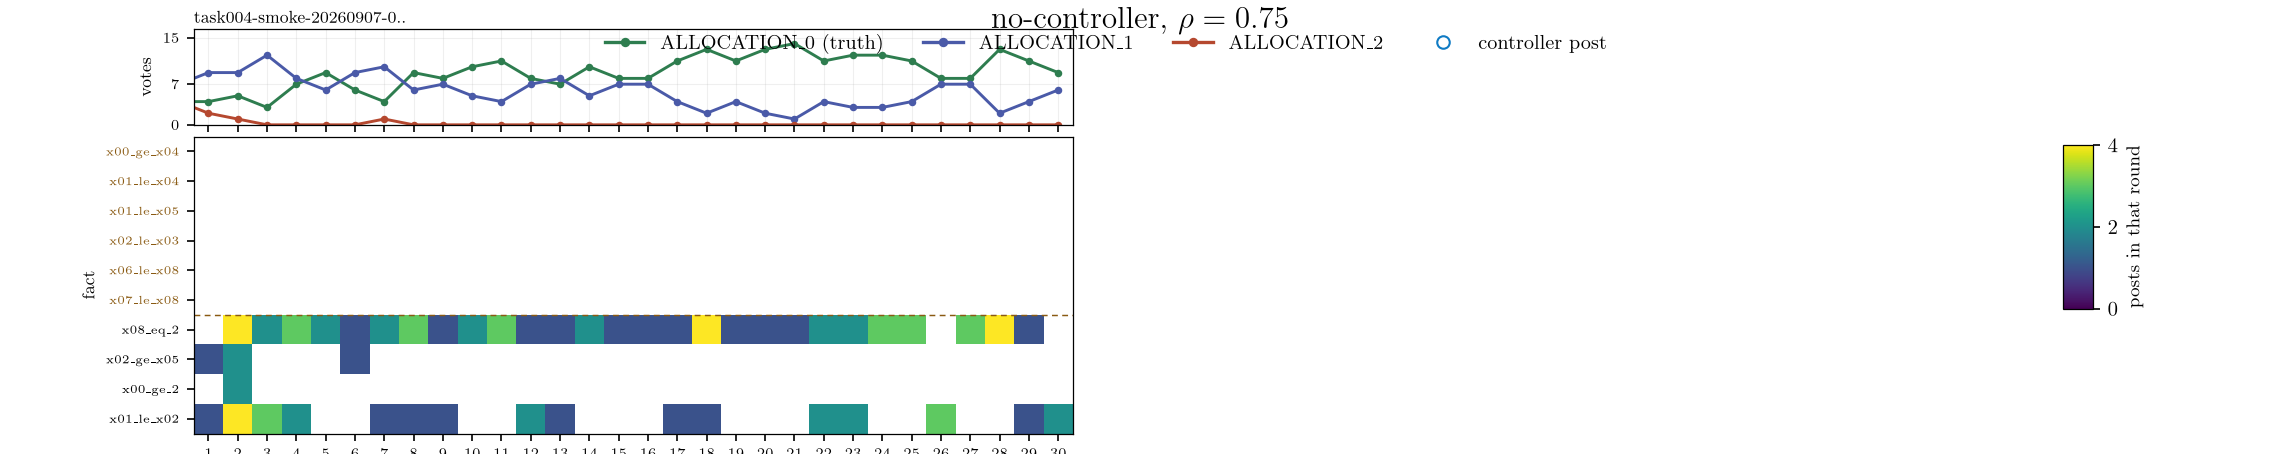
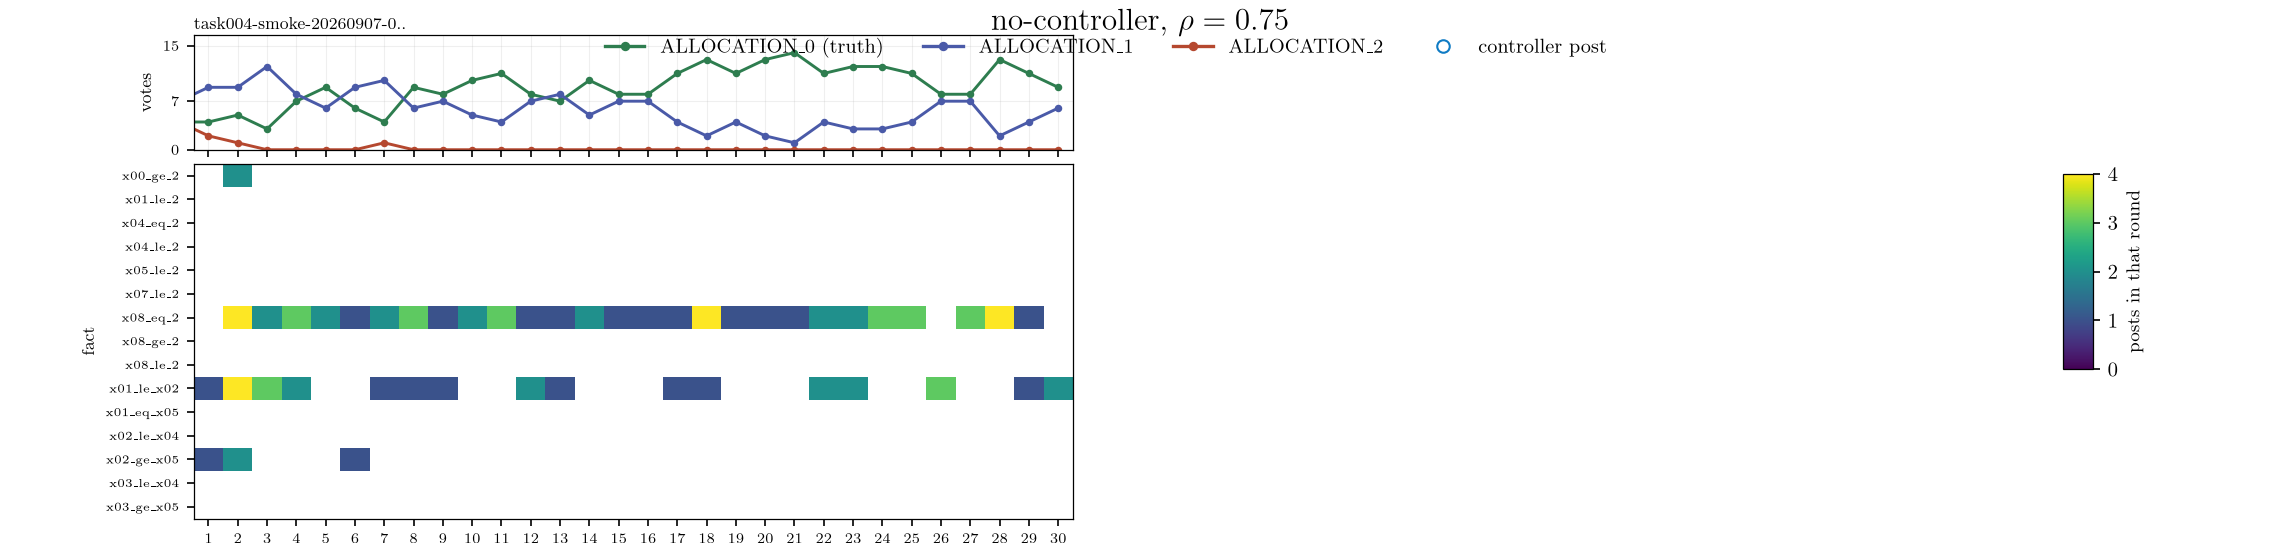
Add the matched rho=0.75 task_004 study
Identical to 24-09-2026-task004-rho1 except for epistemic_persistence, so the
pair isolates decay. The rho=1.0 run showed the smoke episode's low posting
rate was a symptom rather than a cause: without decay the same agents post
9-15 messages a round instead of 3, circulate 9.8 of 15 facts instead of 4,
and reach 0.913 mean final truth share from a 0.13-0.33 start.

report_citation_scope is active_or_observed, so an agent may only cite a fact
it still holds or has just seen. At rho=0.75 facts decay faster than they
arrive, agents run out of anything citable and fall back to NONE. This study
gives that mechanism ten episodes per profile instead of one.

diff --git a/scripts/local/plot_fact_heatmap.py b/scripts/local/plot_fact_heatmap.py
@@ -81,13 +81,36 @@ def _events(path: pathlib.Path) -> list[dict[str, Any]]:
     return out
 
 
-def fact_order(task_dir: pathlib.Path) -> tuple[list[str], set[str]]:
+def fact_order(
+    task_dir: pathlib.Path, population: int, with_controller: bool
+) -> tuple[list[str], set[str]]:
+    """The facts that could actually reach this task's board, decisive first.
+
+    Not every fact in the task file is in play. task_004 removes the decisive
+    facts by dropping the agents that held them, so listing them would show six
+    rows that no participant could ever post. The corpus is what agents hold,
+    plus the controller pool only when a controller is running.
+    """
+
     def ids(name: str) -> list[str]:
         payload = json.loads((task_dir / "facts" / f"{name}.json").read_text())
         return [f["fact_id"] if isinstance(f, dict) else f for f in payload]
 
-    decisive = ids("decisive_facts")
-    return decisive + ids("controller_reportable_facts") + ids("neutral_facts"), set(decisive)
+    assignment = task_dir / "private" / f"N{population}_assignment.json"
+    held: set[str] = set()
+    if assignment.is_file():
+        payload = json.loads(assignment.read_text())
+        held = {f for v in payload.get("agent_assignments", {}).values() for f in v}
+
+    corpus = set(held)
+    if with_controller:
+        corpus |= set(ids("controller_reportable_facts"))
+    if not corpus:                       # no assignment on disk: fall back
+        corpus = set(ids("controller_reportable_facts")) | set(ids("neutral_facts"))
+
+    decisive = [f for f in ids("decisive_facts") if f in corpus]
+    rest = [f for f in ids("all_true_facts") if f in corpus and f not in set(decisive)]
+    return decisive + rest, set(decisive)
 
 
 def overrides_of(episode: pathlib.Path) -> dict[str, Any]:
@@ -313,8 +336,9 @@ def draw(
                 bottom.plot(r, n, marker="o", markersize=5.5, markerfacecolor="none",
                             markeredgecolor=CONTROLLER_RING, markeredgewidth=1.2)
     n_dec = sum(1 for i in rows if order[i] in decisive)
-    bottom.axhline(n_dec - 0.5, color=DECISIVE_LABEL, linewidth=0.7,
-                   linestyle=(0, (4, 3)))
+    if n_dec:
+        bottom.axhline(n_dec - 0.5, color=DECISIVE_LABEL, linewidth=0.7,
+                       linestyle=(0, (4, 3)))
     bottom.set_xticks(range(1, rounds + 1))
     bottom.tick_params(labelsize=7)
     if show_x:
@@ -349,9 +373,10 @@ def main() -> int:
     args = parser.parse_args()
 
     TEX = (not args.no_latex) and use_latex()
-    order, decisive = fact_order(args.task_dir)
 
     if args.zip:
+        # A study archive always carries controller arms.
+        order, decisive = fact_order(args.task_dir, args.population, True)
         preloaded = load_from_zip(args.zip, order, args.per_profile)
         groups = {k: None for k in preloaded}
     else:
@@ -362,6 +387,11 @@ def main() -> int:
         groups = collections.defaultdict(list)
         for ep in sorted({p.parent for p in args.grid_dir.rglob("trajectory.jsonl")}):
             groups[condition(ep)].append(ep)
+        # The controller pool only belongs in the corpus if a controller ran.
+        order, decisive = fact_order(
+            args.task_dir, args.population,
+            any(key[0] != "no-controller" for key in groups),
+        )
     if not groups:
         print("no episodes found", file=sys.stderr)
         return 1
@@ -379,8 +409,7 @@ def main() -> int:
             continue
         # One row set and one colour scale for the whole figure, so panels are
         # directly comparable.
-        used = {i for _, a, c, _, _ in loaded for (i, _r) in list(a) + list(c)}
-        rows = [i for i, f in enumerate(order) if i in used or f in decisive]
+        rows = list(range(len(order)))
         vmax = max((max(a.values()) if a else 0) for _, a, _, _, _ in loaded) or 1
         rounds = max(r for _, _, _, r, _ in loaded)
 
